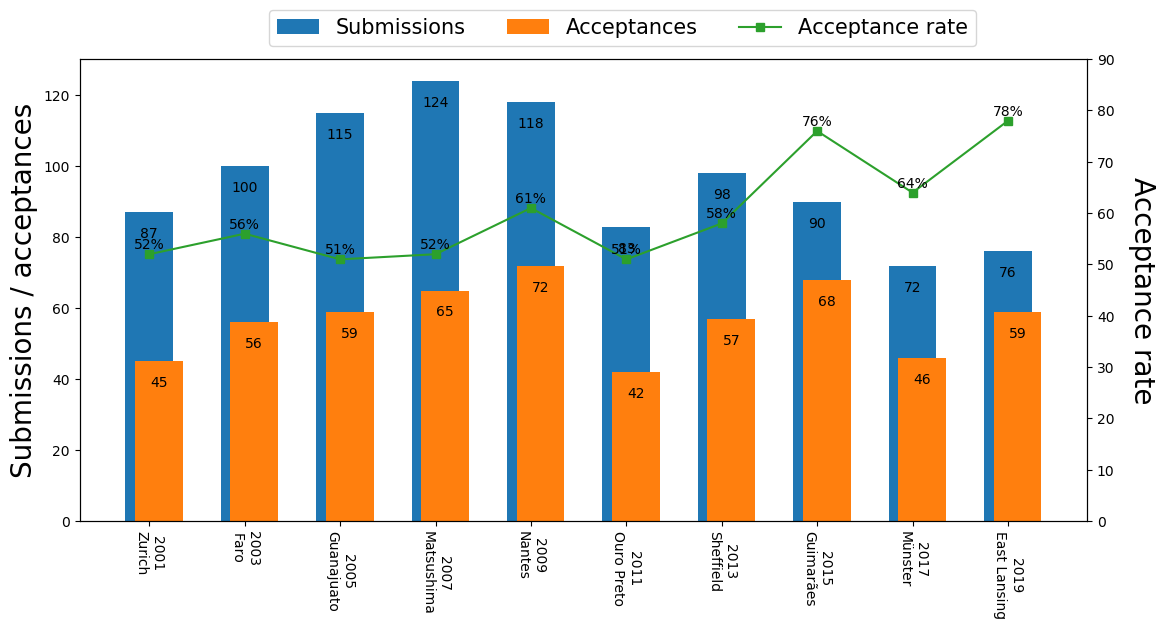
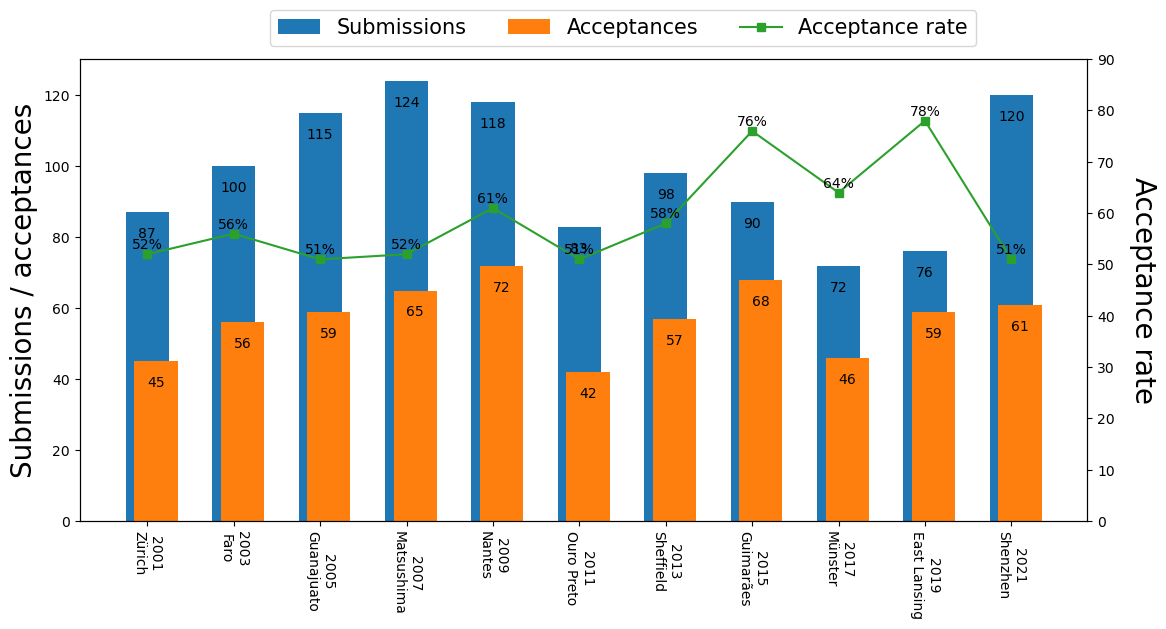
update stats of EMO

diff --git a/index.md b/index.md
@@ -205,7 +205,7 @@ FOGA has been held in odd years since 2005. Statistics of most FOGA conferences 
 EMO is held in odd years.
 
 | Year | Submission | Acceptance | Acceptance rate | Place        | 
-| 2001 | 87         | 45         | 52%             | Zurich       | 
+| 2001 | 87         | 45         | 52%             | Zürich       | 
 | 2003 | 100        | 56         | 56%             | Faro         | 
 | 2005 | 115        | 59         | 51%             | Guanajuato   | 
 | 2007 | 124        | 65         | 52%             | Matsushima   | 
@@ -215,6 +215,9 @@ EMO is held in odd years.
 | 2015 | 90         | 68         | 76%             | Guimarães    | 
 | 2017 | 72         | 46         | 64%             | Münster      | 
 | 2019 | 76         | 59         | 78%             | East Lansing | 
+| 2021 | 120         | 61         | 51%             | Shenzhen | 
+
+
 
 ![EMO](fig/stats_emo.png) 
 
